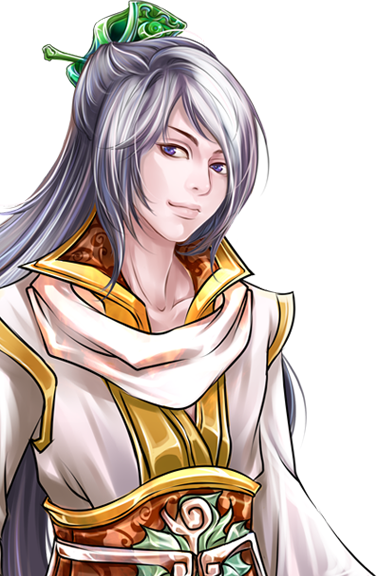
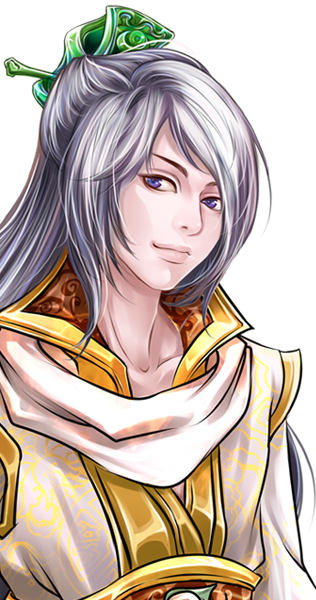
新增一堆表情图
111

diff --git a/online/js/g_config.js b/online/js/g_config.js
@@ -177,11 +177,27 @@ woh.g_config.resources = {
             'images/index/start-button-4.png',
 
             'images/dialogue/rio_tang_normal.png',
+            'images/dialogue/rio_tang_angry.png',
+            'images/dialogue/rio_tang_beauty_sup.png',
+            'images/dialogue/rio_tang_heavy.png',
+            'images/dialogue/rio_tang_light_angry.png',
+            'images/dialogue/rio_tang_smile.png',
+            'images/dialogue/rio_tang_sup.png',
+            'images/dialogue/rio_tang_wei.png',
+
             'images/dialogue/sola_cheng_normal.png',
+            'images/dialogue/sola_cheng_a.png',
+            'images/dialogue/sola_cheng_food.png',
+            'images/dialogue/sola_cheng_nature.png',
+            'images/dialogue/sola_cheng_pity.png',
+            'images/dialogue/sola_cheng_sigh.png',
+            
             'images/dialogue/UI-dialog-bg.png',
+
             'images/bg/bg-beach-dusk.jpg',
             'images/bg/bg-beach.jpg',
             'images/bg/bg-boat-inner.jpg',
+            'images/bg/bg-boat-outer.jpg',
 
             'images/cg/cg_1.jpg'
         ]
